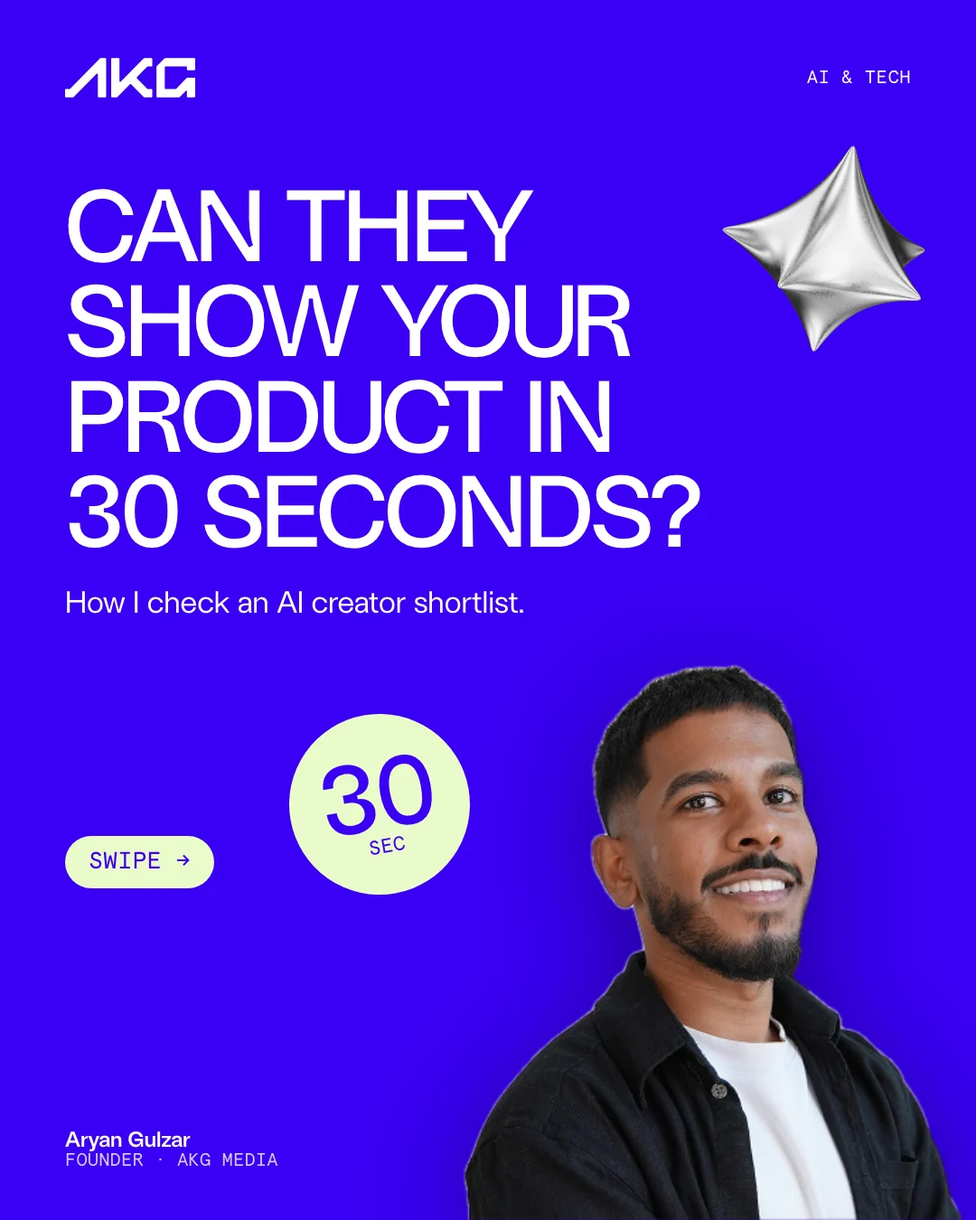
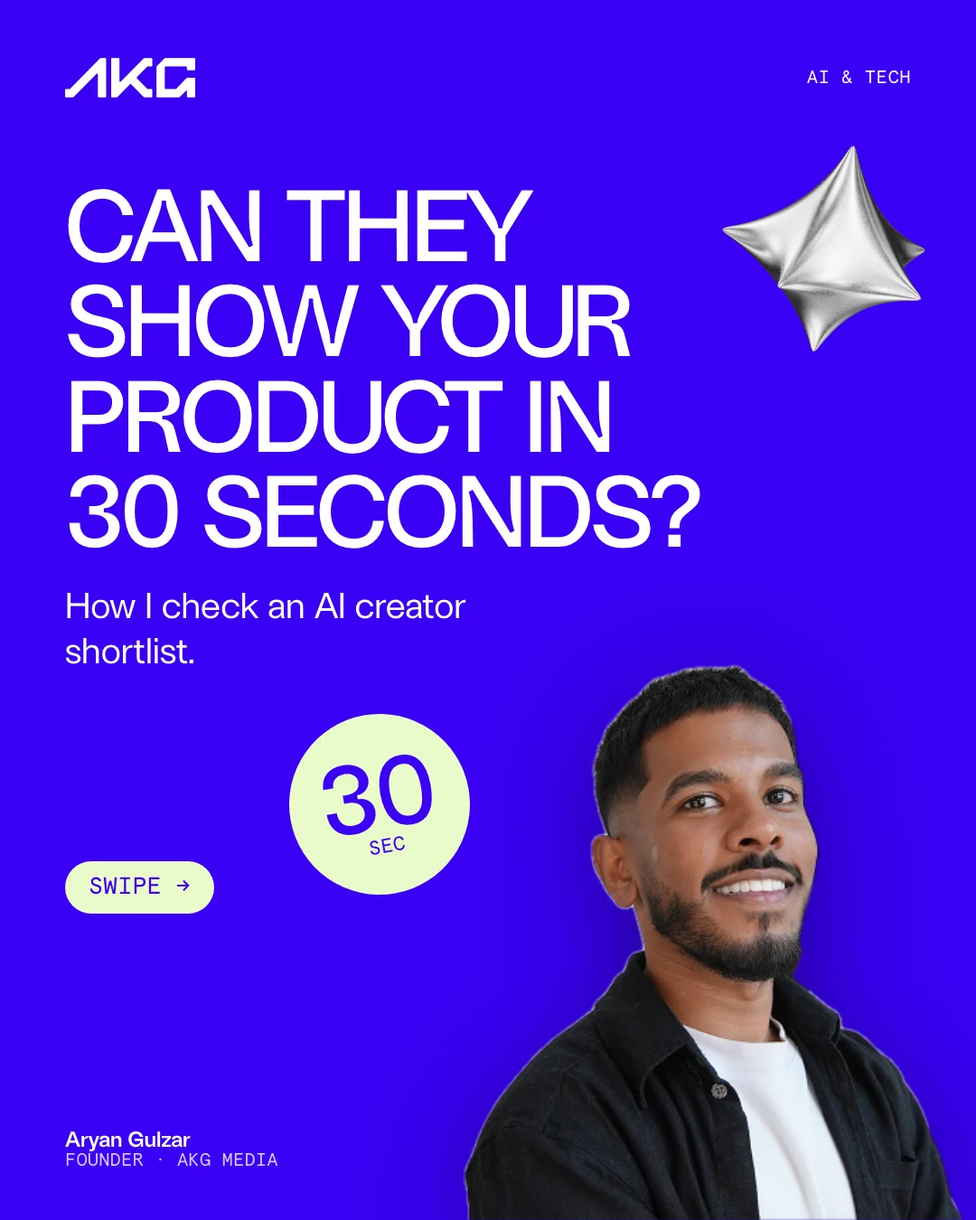
AKG page: rewrite posts in Aryan's voice, drop results and sample opening, link TrainStation 3 resource

Changed region(s): [[0.0611, 0.4667, 0.5194, 0.56], [0.0611, 0.6844, 0.2444, 0.7778]]

diff --git a/shared/aryan-akg/index.html b/shared/aryan-akg/index.html
@@ -25,21 +25,28 @@
 <div class="sec-head"><div><span class="kicker">The posts</span><h2>How it would look on your feed.</h2></div><p>Written from your posts and our call. Copy and artwork sit together in each preview, swipe through the carousel.</p></div>
 <div class="post-grid"><div class="li-wrap rv"><p class="li-tag"><b>Carousel</b>Creator selection</p><article class="li-post">
 <header class="li-head"><img src="assets/aryan.png" alt="" width="48" height="48" loading="lazy"><div><strong>Aryan Gulzar <small>· You</small></strong><span>Founder, AKG Media</span><span>Draft · <svg class="globe" viewBox="0 0 16 16" aria-label="Public"><circle cx="8" cy="8" r="6"/><ellipse cx="8" cy="8" rx="3" ry="6"/><path d="M2 8h12"/></svg></span></div><span class="dots" aria-hidden="true">···</span></header>
-<div class="li-body"><p>For an AI creator campaign, I want the audience to understand what the product does within about 30 seconds.</p><p>Then I&#x27;d look at who&#x27;s watching the creator, how they normally make content and which competing tools they&#x27;ve already shown.</p><p>You can have a great creator and a great product, and still have an audience that has no reason to buy it.</p><p>I put the checks I&#x27;d work through in this carousel.</p></div><div class="li-media" data-carousel><div class="slides" tabindex="0" aria-label="Creator shortlist carousel, 8 slides. Use the left and right arrow keys."><img src="assets/v4/carousel-01.webp" alt="Slide 1: Can they show your product in 30 seconds?" width="1080" height="1350" loading="eager"><img src="assets/v4/carousel-02.webp" alt="Slide 2: Find the visible moment." width="1080" height="1350" loading="lazy"><img src="assets/v4/carousel-03.webp" alt="Slide 3: Who is watching?" width="1080" height="1350" loading="lazy"><img src="assets/v4/carousel-04.webp" alt="Slide 4: Can their format carry it?" width="1080" height="1350" loading="lazy"><img src="assets/v4/carousel-05.webp" alt="Slide 5: Check the sponsor history." width="1080" height="1350" loading="lazy"><img src="assets/v4/carousel-06.webp" alt="Slide 6: Brief for their audience." width="1080" height="1350" loading="lazy"><img src="assets/v4/carousel-07.webp" alt="Slide 7: Test one thing in month one." width="1080" height="1350" loading="lazy"><img src="assets/v4/carousel-08.webp" alt="Slide 8: Use what you learn. Comment SKILLS." width="1080" height="1350" loading="lazy"></div>
+<div class="li-body"><p>Gamma had 3M users when we started working with them in August 2023. They&#x27;ve since passed 100M, and we&#x27;ve tested hundreds of creators for them across TikTok, Instagram and YouTube.</p><p>Before any creator gets booked, I ask one question.</p><p>Can they show the product working in 30 seconds?</p><p>Gamma made that easy. Type a prompt, get a deck, and the viewer gets it before the video&#x27;s halfway through. A lot of AI products need more explaining than that, and the creator ends up carrying it.</p><p>If they pass, I go through the rest of my list:</p><p>→ Who actually watches them, and would those people pay for this?
+→ Can their usual format carry a demo?
+→ Which competitor tools have they shown this month?
+→ Has anyone booked them more than once?</p><p>It&#x27;s all in the carousel, plus how I&#x27;d brief them and run month one 👇</p><p>If a creator fails the 30-second test, I don&#x27;t care how good the rest of their numbers look.</p></div><div class="li-media" data-carousel><div class="slides" tabindex="0" aria-label="Creator shortlist carousel, 8 slides. Use the left and right arrow keys."><img src="assets/v4/carousel-01.webp" alt="Slide 1: Can they show your product in 30 seconds?" width="1080" height="1350" loading="eager"><img src="assets/v4/carousel-02.webp" alt="Slide 2: Find the visible moment." width="1080" height="1350" loading="lazy"><img src="assets/v4/carousel-03.webp" alt="Slide 3: Who is watching?" width="1080" height="1350" loading="lazy"><img src="assets/v4/carousel-04.webp" alt="Slide 4: Can their format carry it?" width="1080" height="1350" loading="lazy"><img src="assets/v4/carousel-05.webp" alt="Slide 5: Check the sponsor history." width="1080" height="1350" loading="lazy"><img src="assets/v4/carousel-06.webp" alt="Slide 6: Brief for their audience." width="1080" height="1350" loading="lazy"><img src="assets/v4/carousel-07.webp" alt="Slide 7: Test one thing in month one." width="1080" height="1350" loading="lazy"><img src="assets/v4/carousel-08.webp" alt="Slide 8: Use what you learn. Comment SKILLS." width="1080" height="1350" loading="lazy"></div>
 <div class="car-bar"><span class="slide-count" aria-live="polite">1 / 8</span><div><button type="button" class="prev" aria-label="Previous slide">←</button><button type="button" class="next" aria-label="Next slide">→</button></div></div></div><div class="li-actions" aria-hidden="true"><span><svg viewBox="0 0 24 24"><path d="M7 11v9H4v-9h3zm0 0 4-7c1.5 0 2.5 1 2.5 2.5V10h5a2 2 0 0 1 2 2.3l-1.2 6a2 2 0 0 1-2 1.7H7"/></svg>Like</span><span><svg viewBox="0 0 24 24"><path d="M4 5h16v11H9l-5 4V5z"/></svg>Comment</span><span><svg viewBox="0 0 24 24"><path d="M7 7h11l-3-3m3 3-3 3M17 17H6l3 3m-3-3 3-3"/></svg>Repost</span><span><svg viewBox="0 0 24 24"><path d="M21 3 2 11l7.5 2.5L12 21l9-18zM9.5 13.5 21 3"/></svg>Send</span></div></article></div><div class="li-wrap rv"><p class="li-tag"><b>Text post</b>Product fit</p><article class="li-post">
 <header class="li-head"><img src="assets/aryan.png" alt="" width="48" height="48" loading="lazy"><div><strong>Aryan Gulzar <small>· You</small></strong><span>Founder, AKG Media</span><span>Draft · <svg class="globe" viewBox="0 0 16 16" aria-label="Public"><circle cx="8" cy="8" r="6"/><ellipse cx="8" cy="8" rx="3" ry="6"/><path d="M2 8h12"/></svg></span></div><span class="dots" aria-hidden="true">···</span></header>
-<div class="li-body"><p>For us, an ideal AI client has a product you can understand within about 30 seconds.</p><p>A creator needs a use case they can show on screen, so the audience can see why they&#x27;d use it.</p><p>That&#x27;s why we work primarily with consumer-facing AI and tech products. A creator can open the tool, do something with it and show the result within the video.</p><p>There are B2B products where this works as well, especially on LinkedIn and X. The angle needs to be specific enough that the right person recognises their own work in the demonstration.</p><p>I&#x27;d want that angle clear before we start talking about which creators to use.</p></div><div class="li-actions" aria-hidden="true"><span><svg viewBox="0 0 24 24"><path d="M7 11v9H4v-9h3zm0 0 4-7c1.5 0 2.5 1 2.5 2.5V10h5a2 2 0 0 1 2 2.3l-1.2 6a2 2 0 0 1-2 1.7H7"/></svg>Like</span><span><svg viewBox="0 0 24 24"><path d="M4 5h16v11H9l-5 4V5z"/></svg>Comment</span><span><svg viewBox="0 0 24 24"><path d="M7 7h11l-3-3m3 3-3 3M17 17H6l3 3m-3-3 3-3"/></svg>Repost</span><span><svg viewBox="0 0 24 24"><path d="M21 3 2 11l7.5 2.5L12 21l9-18zM9.5 13.5 21 3"/></svg>Send</span></div></article></div><div class="li-wrap rv"><p class="li-tag"><b>Lead magnet</b>Cover + post</p><article class="li-post">
+<div class="li-body"><p>We once worked with a cold email agency to bring in clients for AKG. They couldn&#x27;t nail our ICP.</p><p>To be fair to them, it&#x27;s a weird one to explain. Series A to C AI and tech companies, mostly consumer, and that&#x27;s only half of it.</p><p>The real filter is whether you can look at the product and understand it within about 30 seconds.</p><p>If I can&#x27;t, the people watching a creator&#x27;s video can&#x27;t either. A video tool gives you a video. A presentation tool gives you a deck. The creator opens it, does something with it and shows the result.</p><p>The very LLM-heavy, very intricate B2B products are harder. There is an angle on LinkedIn and X, but it has to be specific enough that the right few thousand people recognise their own job in the demo.</p><p>So that&#x27;s my first question on any intro call.</p><p>What can you show me in 30 seconds?</p></div><div class="li-actions" aria-hidden="true"><span><svg viewBox="0 0 24 24"><path d="M7 11v9H4v-9h3zm0 0 4-7c1.5 0 2.5 1 2.5 2.5V10h5a2 2 0 0 1 2 2.3l-1.2 6a2 2 0 0 1-2 1.7H7"/></svg>Like</span><span><svg viewBox="0 0 24 24"><path d="M4 5h16v11H9l-5 4V5z"/></svg>Comment</span><span><svg viewBox="0 0 24 24"><path d="M7 7h11l-3-3m3 3-3 3M17 17H6l3 3m-3-3 3-3"/></svg>Repost</span><span><svg viewBox="0 0 24 24"><path d="M21 3 2 11l7.5 2.5L12 21l9-18zM9.5 13.5 21 3"/></svg>Send</span></div></article></div><div class="li-wrap rv"><p class="li-tag"><b>Lead magnet</b>Cover + post</p><article class="li-post">
 <header class="li-head"><img src="assets/aryan.png" alt="" width="48" height="48" loading="lazy"><div><strong>Aryan Gulzar <small>· You</small></strong><span>Founder, AKG Media</span><span>Draft · <svg class="globe" viewBox="0 0 16 16" aria-label="Public"><circle cx="8" cy="8" r="6"/><ellipse cx="8" cy="8" rx="3" ry="6"/><path d="M2 8h12"/></svg></span></div><span class="dots" aria-hidden="true">···</span></header>
-<div class="li-body"><p>We&#x27;ve put together 4 Claude skills for AI and tech teams planning creator campaigns.</p><p>You give them your product, the audience you&#x27;re trying to reach and the information you already have on the campaign.</p><p>→ Check a creator&#x27;s audience and previous sponsors.
-→ Draft a brief around a product use case.
-→ Plan a first month you can compare properly.
-→ Review results and choose the next test.</p><p>Each one asks for the information it needs and makes missing evidence explicit. Your team still needs to check the recommendations before acting on them.</p><p>Comment SKILLS and I&#x27;ll send you the kit.</p></div><a class="li-media" href="assets/v4/lead-magnet.png" target="_blank" rel="noopener" aria-label="Open the lead magnet cover full size"><img src="assets/v4/lead-magnet.webp" alt="Lead magnet cover: Your next creator campaign. Comment SKILLS." width="1080" height="1350" loading="lazy"></a><div class="li-actions" aria-hidden="true"><span><svg viewBox="0 0 24 24"><path d="M7 11v9H4v-9h3zm0 0 4-7c1.5 0 2.5 1 2.5 2.5V10h5a2 2 0 0 1 2 2.3l-1.2 6a2 2 0 0 1-2 1.7H7"/></svg>Like</span><span><svg viewBox="0 0 24 24"><path d="M4 5h16v11H9l-5 4V5z"/></svg>Comment</span><span><svg viewBox="0 0 24 24"><path d="M7 7h11l-3-3m3 3-3 3M17 17H6l3 3m-3-3 3-3"/></svg>Repost</span><span><svg viewBox="0 0 24 24"><path d="M21 3 2 11l7.5 2.5L12 21l9-18zM9.5 13.5 21 3"/></svg>Send</span></div></article></div><div class="li-wrap rv"><p class="li-tag"><b>Animated infographic</b>Creator brief</p><article class="li-post">
+<div class="li-body"><p>We used to run a Claude skill that went through my Slack, Gmail and team chats and pulled out ideas for LinkedIn posts. It was a really good way to get ideas out of the team.</p><p>So we built four more, this time for planning creator campaigns.</p><p>→ Creator fit: checks a shortlist for audience, format and past sponsors
+→ Creator brief: turns your product notes into something a creator can film from
+→ First-month test: plans what to compare so the results mean something
+→ Campaign readout: what happened, what&#x27;s still unclear, what to test next</p><p>They run in Claude. You give them your product, who you&#x27;re selling to and whatever campaign data you already have. If something&#x27;s missing, they ask for it.</p><p>Comment SKILLS and I&#x27;ll send all four over.</p></div><a class="li-media" href="assets/v4/lead-magnet.png" target="_blank" rel="noopener" aria-label="Open the lead magnet cover full size"><img src="assets/v4/lead-magnet.webp" alt="Lead magnet cover: Your next creator campaign. Comment SKILLS." width="1080" height="1350" loading="lazy"></a><div class="li-actions" aria-hidden="true"><span><svg viewBox="0 0 24 24"><path d="M7 11v9H4v-9h3zm0 0 4-7c1.5 0 2.5 1 2.5 2.5V10h5a2 2 0 0 1 2 2.3l-1.2 6a2 2 0 0 1-2 1.7H7"/></svg>Like</span><span><svg viewBox="0 0 24 24"><path d="M4 5h16v11H9l-5 4V5z"/></svg>Comment</span><span><svg viewBox="0 0 24 24"><path d="M7 7h11l-3-3m3 3-3 3M17 17H6l3 3m-3-3 3-3"/></svg>Repost</span><span><svg viewBox="0 0 24 24"><path d="M21 3 2 11l7.5 2.5L12 21l9-18zM9.5 13.5 21 3"/></svg>Send</span></div></article></div><div class="li-wrap rv"><p class="li-tag"><b>Animated infographic</b>Creator brief</p><article class="li-post">
 <header class="li-head"><img src="assets/aryan.png" alt="" width="48" height="48" loading="lazy"><div><strong>Aryan Gulzar <small>· You</small></strong><span>Founder, AKG Media</span><span>Draft · <svg class="globe" viewBox="0 0 16 16" aria-label="Public"><circle cx="8" cy="8" r="6"/><ellipse cx="8" cy="8" rx="3" ry="6"/><path d="M2 8h12"/></svg></span></div><span class="dots" aria-hidden="true">···</span></header>
-<div class="li-body"><p>Before a creator gets the brief, I&#x27;d check whether we&#x27;ve made the video possible to make.</p><p>They should know what the viewer needs to see the product do, who that viewer is, and which claims the brand can support.</p><p>The creator should also know where they have room to make it their own. A screen tutorial and a story-led video need different openings, even if they&#x27;re showing the same tool.</p><p>I&#x27;ve put an example outline below. The last part is the approval process, because a product question sitting unanswered can hold up the whole video.</p></div><div class="li-media live"><iframe src="assets/v4/infographic.html" title="Animated infographic: the creator brief, on one page" loading="lazy" tabindex="-1"></iframe><span class="live-tag">Animated</span><noscript><img src="assets/v4/infographic.webp" alt="The creator brief, on one page"></noscript></div><div class="li-actions" aria-hidden="true"><span><svg viewBox="0 0 24 24"><path d="M7 11v9H4v-9h3zm0 0 4-7c1.5 0 2.5 1 2.5 2.5V10h5a2 2 0 0 1 2 2.3l-1.2 6a2 2 0 0 1-2 1.7H7"/></svg>Like</span><span><svg viewBox="0 0 24 24"><path d="M4 5h16v11H9l-5 4V5z"/></svg>Comment</span><span><svg viewBox="0 0 24 24"><path d="M7 7h11l-3-3m3 3-3 3M17 17H6l3 3m-3-3 3-3"/></svg>Repost</span><span><svg viewBox="0 0 24 24"><path d="M21 3 2 11l7.5 2.5L12 21l9-18zM9.5 13.5 21 3"/></svg>Send</span></div></article></div><div class="li-wrap rv"><p class="li-tag"><b>Text post</b>Creator briefing</p><article class="li-post">
+<div class="li-body"><p>Fernando Machado, Chipotle&#x27;s Chief Brand Officer, said something about early TV that I can&#x27;t stop thinking about. The first TV ads were basically radio ads shot for TV.</p><p>I still see creator briefs that feel exactly like that. A TV script with a TikTok handle stuck on top.</p><p>Five things get a creator filming, and I put them on one page below.</p><p>→ The one task the viewer should see the product do
+→ Who that viewer is, and why they&#x27;d care
+→ Which claims your legal team needs to check
+→ How much room they have to do it their way
+→ Who signs off, and by when</p><p>The last one is the one I see skipped most. Then a product question sits in someone&#x27;s inbox for days and the whole video waits for it.</p></div><div class="li-media live"><iframe src="assets/v4/infographic.html" title="Animated infographic: the creator brief, on one page" loading="lazy" tabindex="-1"></iframe><span class="live-tag">Animated</span><noscript><img src="assets/v4/infographic.webp" alt="The creator brief, on one page"></noscript></div><div class="li-actions" aria-hidden="true"><span><svg viewBox="0 0 24 24"><path d="M7 11v9H4v-9h3zm0 0 4-7c1.5 0 2.5 1 2.5 2.5V10h5a2 2 0 0 1 2 2.3l-1.2 6a2 2 0 0 1-2 1.7H7"/></svg>Like</span><span><svg viewBox="0 0 24 24"><path d="M4 5h16v11H9l-5 4V5z"/></svg>Comment</span><span><svg viewBox="0 0 24 24"><path d="M7 7h11l-3-3m3 3-3 3M17 17H6l3 3m-3-3 3-3"/></svg>Repost</span><span><svg viewBox="0 0 24 24"><path d="M21 3 2 11l7.5 2.5L12 21l9-18zM9.5 13.5 21 3"/></svg>Send</span></div></article></div><div class="li-wrap rv"><p class="li-tag"><b>Text post</b>Creator briefing</p><article class="li-post">
 <header class="li-head"><img src="assets/aryan.png" alt="" width="48" height="48" loading="lazy"><div><strong>Aryan Gulzar <small>· You</small></strong><span>Founder, AKG Media</span><span>Draft · <svg class="globe" viewBox="0 0 16 16" aria-label="Public"><circle cx="8" cy="8" r="6"/><ellipse cx="8" cy="8" rx="3" ry="6"/><path d="M2 8h12"/></svg></span></div><span class="dots" aria-hidden="true">···</span></header>
-<div class="li-body"><p>I&#x27;d love to know how many creator briefs were written by people who never had to make the video.</p><p>A brief can be technically complete and still leave the creator doing a lot of guesswork. They need to know who the product is for, what someone should see it do, and which claims have to be checked.</p><p>Then give them room to use the format their audience already likes. If they usually teach through a screen recording, let them show the product. If they tell stories, give them the use case and let them find the opening.</p><p>The approval side needs to be clear as well. Who answers a product question? Who signs off a claim? When does a revised cut need to come back?</p><p>I&#x27;d want those answers in the brief before it reaches the creator.</p></div><div class="li-actions" aria-hidden="true"><span><svg viewBox="0 0 24 24"><path d="M7 11v9H4v-9h3zm0 0 4-7c1.5 0 2.5 1 2.5 2.5V10h5a2 2 0 0 1 2 2.3l-1.2 6a2 2 0 0 1-2 1.7H7"/></svg>Like</span><span><svg viewBox="0 0 24 24"><path d="M4 5h16v11H9l-5 4V5z"/></svg>Comment</span><span><svg viewBox="0 0 24 24"><path d="M7 7h11l-3-3m3 3-3 3M17 17H6l3 3m-3-3 3-3"/></svg>Repost</span><span><svg viewBox="0 0 24 24"><path d="M21 3 2 11l7.5 2.5L12 21l9-18zM9.5 13.5 21 3"/></svg>Send</span></div></article></div><div class="li-wrap rv"><p class="li-tag"><b>Text post</b>Campaign testing</p><article class="li-post">
+<div class="li-body"><p>I&#x27;ve rescheduled the same sales call three times before. I was an idiot about it, and they told me exactly that: &quot;Come on, bro.&quot;</p><p>They still got on the call. Their reason was my LinkedIn. It looked strong enough that they&#x27;d give me another go.</p><p>That stuck with me, because I barely post. Most of AKG&#x27;s clients come from LinkedIn and spend a lot of time on it, and I&#x27;m usually on calls or in campaign reviews.</p><p>So I&#x27;m going to share more of what actually happens inside the campaigns we run for AI companies. The briefs, the tests, the creators that worked and the ones that didn&#x27;t.</p><p>And I&#x27;ll try not to reschedule anyone.</p></div><div class="li-actions" aria-hidden="true"><span><svg viewBox="0 0 24 24"><path d="M7 11v9H4v-9h3zm0 0 4-7c1.5 0 2.5 1 2.5 2.5V10h5a2 2 0 0 1 2 2.3l-1.2 6a2 2 0 0 1-2 1.7H7"/></svg>Like</span><span><svg viewBox="0 0 24 24"><path d="M4 5h16v11H9l-5 4V5z"/></svg>Comment</span><span><svg viewBox="0 0 24 24"><path d="M7 7h11l-3-3m3 3-3 3M17 17H6l3 3m-3-3 3-3"/></svg>Repost</span><span><svg viewBox="0 0 24 24"><path d="M21 3 2 11l7.5 2.5L12 21l9-18zM9.5 13.5 21 3"/></svg>Send</span></div></article></div><div class="li-wrap rv"><p class="li-tag"><b>Text post</b>Campaign testing</p><article class="li-post">
 <header class="li-head"><img src="assets/aryan.png" alt="" width="48" height="48" loading="lazy"><div><strong>Aryan Gulzar <small>· You</small></strong><span>Founder, AKG Media</span><span>Draft · <svg class="globe" viewBox="0 0 16 16" aria-label="Public"><circle cx="8" cy="8" r="6"/><ellipse cx="8" cy="8" rx="3" ry="6"/><path d="M2 8h12"/></svg></span></div><span class="dots" aria-hidden="true">···</span></header>
-<div class="li-body"><p>The first month of a creator campaign should leave you with something useful to test next.</p><p>If the creator, platform and message all change between placements, you’ve given yourself several possible explanations for the result. It gets messy when you’re deciding where the next budget should go.</p><p>I’d start with a comparison the team can explain. If we’re comparing creator profiles, keep the platform and message consistent. Record what changed, then review the creative and the agreed tracking together.</p><p>The comments can also show which parts of the product people understood or asked about. Put those observations beside the numbers and keep the unanswered questions in the readout.</p><p>I’d write down which creator profile to compare next, and what we need to keep consistent.</p></div><div class="li-actions" aria-hidden="true"><span><svg viewBox="0 0 24 24"><path d="M7 11v9H4v-9h3zm0 0 4-7c1.5 0 2.5 1 2.5 2.5V10h5a2 2 0 0 1 2 2.3l-1.2 6a2 2 0 0 1-2 1.7H7"/></svg>Like</span><span><svg viewBox="0 0 24 24"><path d="M4 5h16v11H9l-5 4V5z"/></svg>Comment</span><span><svg viewBox="0 0 24 24"><path d="M7 7h11l-3-3m3 3-3 3M17 17H6l3 3m-3-3 3-3"/></svg>Repost</span><span><svg viewBox="0 0 24 24"><path d="M21 3 2 11l7.5 2.5L12 21l9-18zM9.5 13.5 21 3"/></svg>Send</span></div></article></div></div>
+<div class="li-body"><p>Three years of running creator campaigns for AI companies, and the retention pattern barely changes.</p><p>If a client gets through their first two months with us, they usually extend for another three to six. After that it&#x27;s normally twelve.</p><p>So those first two months matter a lot, and they&#x27;re meant to be a bit messy. You&#x27;re testing creator profiles, platforms and concepts to find what actually moves signups.</p><p>The mistake I see is changing all three on every post. Then one video takes off and nobody can tell you why. Was it the creator or was it TikTok?</p><p>How we run it: keep the message and platform steady and change the creator profile. Next round, swap. Give every creator their own tracking link before anything goes live, and write down what changed.</p><p>By month three you should be able to name the creator profile you&#x27;re putting more money behind.</p></div><div class="li-actions" aria-hidden="true"><span><svg viewBox="0 0 24 24"><path d="M7 11v9H4v-9h3zm0 0 4-7c1.5 0 2.5 1 2.5 2.5V10h5a2 2 0 0 1 2 2.3l-1.2 6a2 2 0 0 1-2 1.7H7"/></svg>Like</span><span><svg viewBox="0 0 24 24"><path d="M4 5h16v11H9l-5 4V5z"/></svg>Comment</span><span><svg viewBox="0 0 24 24"><path d="M7 7h11l-3-3m3 3-3 3M17 17H6l3 3m-3-3 3-3"/></svg>Repost</span><span><svg viewBox="0 0 24 24"><path d="M21 3 2 11l7.5 2.5L12 21l9-18zM9.5 13.5 21 3"/></svg>Send</span></div></article></div></div>
 <p class="posts-note"><b>These are first drafts.</b> You review the copy and designs before anything is published, and we refine the voice during setup.</p>
 </div></section>
 
@@ -68,12 +75,11 @@
 </div></section>
 
 <section class="sec out-sec" id="outreach"><div class="wrap">
-<div class="sec-head"><div><span class="kicker">Outreach resource</span><h2>A useful reason to message them.</h2></div><p>The research format we run for ARCH, adapted for an AI brand. This is the cover and the opening message.</p></div>
+<div class="sec-head"><div><span class="kicker">Outreach resource</span><h2>A useful reason to message them.</h2></div><p>The research format we run for ARCH, adapted for an AI brand. Here is the cover, and the ARCH original it comes from.</p></div>
 <div class="res out"><a class="res-cover" href="assets/v4/outreach-cover.png" target="_blank" rel="noopener" aria-label="Open the Suno outreach cover"><img src="assets/v4/outreach-cover.webp" alt="Illustrative outreach cover: Suno, creator opportunities" width="1080" height="1350" loading="lazy"></a>
 <div class="res-copy"><h3>Suno: a creator snapshot.</h3>
 <p>A music product gives a creator a clear demo: take an idea, make a song, let the viewer hear it. The full resource reviews current coverage, finds adjacent creators and proposes one video angle.</p>
-<div class="message"><span>Example opening</span><p>Hey [name], had an idea for Suno around creators showing an idea turning into a finished song. We could put together a short creator snapshot around that angle. Would it be useful if I sent it over?</p></div>
-<a class="text-link" href="https://madebyarch.com/appquantum-gold-and-goblins-games-bbfefe44-audit/" target="_blank" rel="noopener">See the ARCH original ↗</a>
+<a class="arch-ref" href="https://madebyarch.com/trainstation-3-audit/" target="_blank" rel="noopener"><img src="assets/v4/arch-trainstation.webp" alt="ARCH resource: TrainStation 3 YouTube coverage and creator audit" width="1200" height="900" loading="lazy"><span><b>The ARCH original</b>TrainStation 3: a coverage and creator audit, prepared for Pixel Federation ↗</span></a>
 <p class="fine">Illustrative prospect. Relationships, buying interest and budget get checked with you before any outreach.</p></div></div>
 </div></section>
 
@@ -83,10 +89,6 @@
 <article class="col"><span class="mono">02 / Lead magnets</span><h3>Lead magnets in your brand.</h3><ul><li>Each one gets a cover</li><li>A keyword</li><li>Delivery by DM</li><li>Then we follow the conversation</li></ul></article>
 <article class="col"><span class="mono">03 / Outreach · full service</span><h3>Outreach to AI brands that fit.</h3><p>Warm outreach to people who engage and fit your ICP, direct outreach to Series A to C AI brands. I handle every reply through to the booked call.</p></article></div>
 <p class="service">You can check the board whenever you want. Your audience, leads and content stay yours.</p>
-
-<div class="results" id="results"><span class="kicker">Client results</span><h3 class="display">Kyle and Mattan's results.</h3>
-<div class="results-grid"><article class="result rv"><div class="who"><img src="assets/v4/kyle.jpg" alt="Kyle Hunt" width="200" height="200" loading="lazy"><div><h4>Kyle Hunt</h4><span>Agency Operators · Inbound</span></div></div><div class="big"><span>$30k →</span><strong>$80k</strong><small>/mo</small></div><p>Monthly revenue across the 90 days we ran his LinkedIn. Around 20 sales calls a month, up to 6 in a week.</p><a href="https://inboundonsteroids.com/case/kyle-hunt/">Read the case ↗</a></article>
-<article class="result alt rv"><div class="who"><img src="assets/v4/mattan.jpg" alt="Mattan Danino" width="200" height="200" loading="lazy"><div><h4>Mattan Danino</h4><span>RISE DTC · Inbound + Outbound</span></div></div><div class="big"><strong>19</strong><small>sales calls</small></div><p>Booked from outreach, August to September.</p><a href="https://inboundonsteroids.com/case/rise-dtc/">Read the case ↗</a></article></div></div>
 
 <div class="offer" id="start"><article class="plan" id="content-plan"><span class="badge">Inbound</span><h3>Content + lead magnets</h3><div class="price">$2,000<span>/ month</span></div><p class="terms">Month to month. No lock-in.</p>
 <ul><li><b>4 to 5 posts a week</b>, written, designed and published</li><li>Branded carousels and infographics</li><li><b>Lead magnets included:</b> resource, cover, post, keyword and DM delivery</li><li>Shared board for review and revisions</li><li>Weekly report and monthly review</li></ul>

diff --git a/shared/aryan-akg/assets/v2/media.css b/shared/aryan-akg/assets/v2/media.css
@@ -1,0 +1,2 @@
+@font-face{font-family:Manrope;src:url(manrope-regular.ttf);font-weight:400}@font-face{font-family:Manrope;src:url(manrope-semibold.ttf);font-weight:600}@font-face{font-family:Manrope;src:url(manrope-extra-bold.ttf);font-weight:800}*{box-sizing:border-box}html,body{margin:0;width:1080px;height:1350px;overflow:hidden}body{font-family:Manrope,Arial,sans-serif;color:#10150d;background:#f9fbf4}.slide{width:1080px;height:1350px;position:relative;padding:68px 72px;display:flex;flex-direction:column}.slide.dark{background:#10150d;color:#eefbdc}.slide.green{background:#e9faca;color:#12170c}.brand{display:flex;align-items:center;justify-content:space-between;height:44px;font-size:18px;font-weight:750;letter-spacing:.06em}.brand svg{width:138px;height:43px}.brand .logo{color:inherit}.brand path{fill:currentColor}.series{opacity:.65;font-size:16px;font-weight:500;letter-spacing:0}.slide h1{font-size:77px;line-height:1.04;letter-spacing:-.055em;margin:58px 0 28px;max-width:850px}.slide .body{font-size:34px;line-height:1.45;letter-spacing:-.025em;max-width:900px;margin:0;min-height:205px}.visual{flex:1;min-height:0;margin:40px 0 30px;display:flex;align-items:center;justify-content:center;position:relative}.foot{display:flex;align-items:center;justify-content:space-between;margin-top:auto;padding-top:22px;border-top:1px solid currentColor;font-size:16px;letter-spacing:.02em}.foot .count{font-size:22px;font-weight:750}.line{height:2px;background:currentColor;opacity:.25}.arrow{font-size:58px;line-height:1;color:#697e4c}.dark .arrow{color:#e9faca}.window{border:2px solid #c5cdbb;border-radius:24px;background:white;color:#18210f;overflow:hidden;width:100%;box-shadow:0 20px 40px #10150d12}.window-head{padding:17px 23px;border-bottom:1px solid #dce2d3;font-size:18px;font-weight:700;background:#f1f4eb}.window-content{padding:25px}.micro{font-size:17px;letter-spacing:.04em;text-transform:uppercase;color:#536540}.miniheading{font-size:34px;font-weight:750;line-height:1.18;letter-spacing:-.03em}.chips{display:flex;flex-wrap:wrap;gap:12px;margin-top:18px}.chip{font-size:20px;background:#e9faca;color:#20370f;padding:12px 16px;border-radius:10px}.emptyline{height:15px;background:#e2e8d9;border-radius:5px;margin-top:18px;width:100%}.emptyline.short{width:65%}.diagram-grid{display:grid;grid-template-columns:1fr 1fr;gap:24px;width:100%}.diagram-card{padding:26px;border:2px solid #c2ccaf;border-radius:20px;background:#fff;color:#18210f}.diagram-card .n{display:block;font-size:56px;line-height:1;font-weight:800;color:#5b7b2b;margin-bottom:22px}.diagram-card p{font-size:23px;line-height:1.4;margin:12px 0 0}.diagram-card h3{font-size:30px;line-height:1.2;margin:0;letter-spacing:-.03em}.cover h1{font-size:104px;margin-top:80px;max-width:850px}.cover .body{font-size:36px;min-height:0;max-width:730px}.cover .visual{justify-content:flex-start}.cover-art{width:100%;height:360px;position:relative}.timer{border:2px solid #a8c183;border-radius:50%;width:260px;height:260px;display:flex;align-items:center;justify-content:center;flex-direction:column;position:absolute;right:35px;top:42px;background:#e9faca;color:#10150d}.timer strong{font-size:104px;letter-spacing:-.07em;line-height:1}.timer span{font-size:20px;margin-top:12px}.product-symbol{width:500px;position:absolute;left:0;top:10px;transform:rotate(-4deg)}.product-symbol .window-content{height:265px}.product-symbol .miniheading{font-size:42px}.pict{font-size:34px;font-weight:750}.channels{display:grid;grid-template-columns:1.3fr .7fr;gap:26px;width:100%;align-items:center}.screen{height:285px;padding:24px;border:2px solid #c6d5b1;border-radius:22px;background:#f5f8f0;color:#10150d}.phone{height:380px;width:235px;border-radius:30px;border:5px solid #91a379;background:#eff4e8;padding:28px 18px;color:#10150d;justify-self:center}.play{width:88px;height:88px;border-radius:50%;background:#e9faca;display:grid;place-items:center;margin:30px auto;font-size:35px}.feed-example{display:flex;gap:18px;width:100%;align-items:center}.feed-tile{flex:1;background:#fff;border:2px solid #d4ddc8;border-radius:18px;padding:26px 18px;min-height:230px;color:#14210b}.feed-tile b{font-size:28px;display:block;margin:15px 0}.feed-tile small{font-size:18px;color:#59694a}.brieflines{display:grid;gap:0}.briefline{display:flex;align-items:center;gap:25px;padding:24px 0;border-bottom:1px solid #d5deca;font-size:25px}.briefline b{min-width:210px}.briefline span{font-size:22px;color:#61724d}.table{width:100%;border-collapse:collapse;font-size:22px}.table th{text-align:left;padding:18px;background:#e9faca;font-size:18px}.table td{padding:22px 18px;border-top:1px solid #d3ddc6}.table caption{text-align:left;font-size:17px;padding-bottom:16px;color:#65734f}.decision{display:grid;gap:22px;width:100%}.decision .from{display:flex;gap:18px}.decision .from div{flex:1;padding:28px;background:#29331e;color:#e9faca;border:1px solid #52633e;border-radius:18px;font-size:28px;font-weight:650}.decision .to{background:#e9faca;color:#10150d;border-radius:20px;padding:30px;font-size:36px;font-weight:750;letter-spacing:-.03em}.decision .cta{font-size:23px;margin-top:10px;color:#d8eac3}.vertical-flow{display:flex;align-items:center;gap:18px;width:100%}.vertical-flow .window{flex:1}.tinylabel{font-size:16px;color:#607048;margin-bottom:12px}.minirows{font-size:22px;line-height:1.55}.kit-grid{display:grid;grid-template-columns:1fr 1fr;gap:20px}.kit-card{padding:26px;border:1px solid #6a8051;background:#202a17;border-radius:18px;color:#e9faca}.kit-card strong{font-size:27px;line-height:1.15;display:block;margin:14px 0}.kit-card code{font:17px monospace;opacity:.7}.kit-title{font-size:98px;line-height:1.03;letter-spacing:-.05em;margin:60px 0 35px}.kit-cover h1{font-size:98px}.kit-cover .body{font-size:36px;min-height:0}.kit-cover .visual{display:block;margin-top:60px}.info h1{font-size:76px;margin-bottom:22px}.info .body{font-size:31px;min-height:0}.handoffs{display:grid;gap:16px;width:100%;margin:37px 0}.handoff{display:grid;grid-template-columns:67px 1fr;gap:20px;padding:25px 28px;background:#fff;border:1px solid #bdcdae;border-radius:18px;color:#112009}.handoff .n{font-size:46px;color:#5a7836;font-weight:800;line-height:1.1}.handoff h3{font-size:29px;line-height:1.2;margin:0 0 9px;letter-spacing:-.02em}.handoff p{font-size:23px;line-height:1.35;margin:10px 0 0}.owner{font-size:17px;font-weight:650;color:#526a39}.info-note{font-size:23px;line-height:1.4;max-width:850px;margin:5px 0 26px}
+.kit-cover .visual{display:grid;grid-template-columns:repeat(2,minmax(0,1fr));gap:22px;align-content:start}.kit-card{min-height:200px}.info .handoffs{margin-top:54px;margin-bottom:24px}.info h1{font-size:70px}.info .handoff{padding:21px 24px}.info .handoff p{font-size:22px}.slide-3 .visual{flex:0 0 430px;margin-top:42px}

diff --git a/shared/aryan-akg/assets/v4/media.css b/shared/aryan-akg/assets/v4/media.css
@@ -17,7 +17,7 @@ body{font-family:AKG,Arial,sans-serif;background:#000;color:#fff;-webkit-font-sm
 .num{font:500 30px AKGMono,monospace;margin:70px 0 14px;display:flex;align-items:center;gap:16px}
 .num i{display:inline-block;width:64px;height:3px;background:currentColor}
 h1{font:500 104px/.94 AKGDisplay,Arial,sans-serif;letter-spacing:-.03em;text-transform:uppercase;margin:0;max-width:930px}
-.sub{font:400 34px/1.3 AKG,Arial,sans-serif;margin:30px 0 0;max-width:860px}
+.sub{font:400 40px/1.25 AKG,Arial,sans-serif;margin:30px 0 0;max-width:860px}
 .mono{font-family:AKGMono,monospace;text-transform:uppercase;letter-spacing:.02em}
 .fig{flex:1;min-height:0;margin:44px 0 30px;position:relative}
 .foot{display:flex;align-items:center;gap:18px;margin-top:auto;padding-top:24px;border-top:2px solid currentColor;font:20px AKGMono,monospace;text-transform:uppercase}

diff --git a/shared/aryan-akg/assets/v4/page.css b/shared/aryan-akg/assets/v4/page.css
@@ -254,3 +254,8 @@ main{position:relative;z-index:2;overflow-x:clip}
  .res-cover{transform:none!important}
 }
 .out .res-cover{outline:1px solid #ffffff33}
+.arch-ref{display:block;margin:30px 0 18px;text-decoration:none;border:1px solid #ffffff33;background:#0b0b0b;transition:border-color .2s}
+.arch-ref:hover{border-color:var(--lime)}
+.arch-ref img{width:100%;aspect-ratio:4/3;object-fit:cover;object-position:top}
+.arch-ref span{display:block;padding:14px 16px;font-size:15px;line-height:1.45}
+.arch-ref b{display:block;font:12px AKGMono,monospace;text-transform:uppercase;color:var(--lime);margin-bottom:4px;font-weight:400}
